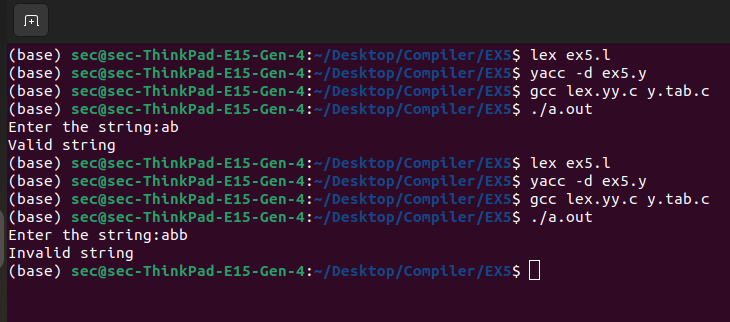
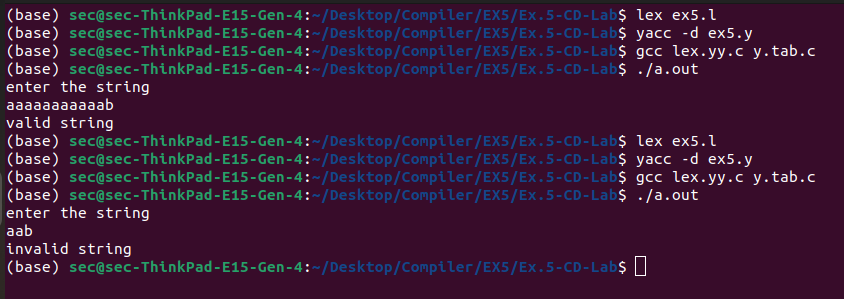
Submitted4

Changed region(s): [[0.0, 0.0, 1.0, 0.9331], [0.7233, 0.7826, 0.7534, 0.8127]]

diff --git a/y.tab.c b/y.tab.c
@@ -72,8 +72,8 @@
 #include <stdio.h>
 #include <stdlib.h>
 
-void yyerror(char *s);
-int yylex(void);
+int yylex(void);         // Prototype for yylex function
+int yyerror(char *msg);  // Prototype for yyerror function
 
 #line 79 "y.tab.c"
 
@@ -487,9 +487,9 @@ union yyalloc
 #endif /* !YYCOPY_NEEDED */
 
 /* YYFINAL -- State number of the termination state.  */
-#define YYFINAL  5
+#define YYFINAL  4
 /* YYLAST -- Last index in YYTABLE.  */
-#define YYLAST   5
+#define YYLAST   16
 
 /* YYNTOKENS -- Number of terminals.  */
 #define YYNTOKENS  6
@@ -498,7 +498,7 @@ union yyalloc
 /* YYNRULES -- Number of rules.  */
 #define YYNRULES  4
 /* YYNSTATES -- Number of states.  */
-#define YYNSTATES  8
+#define YYNSTATES  17
 
 /* YYMAXUTOK -- Last valid token kind.  */
 #define YYMAXUTOK   260
@@ -548,7 +548,7 @@ static const yytype_int8 yytranslate[] =
 /* YYRLINE[YYN] -- Source line where rule number YYN was defined.  */
 static const yytype_int8 yyrline[] =
 {
-       0,    13,    13,    16,    16
+       0,    12,    12,    18,    19
 };
 #endif
 
@@ -589,7 +589,8 @@ yysymbol_name (yysymbol_kind_t yysymbol)
    STATE-NUM.  */
 static const yytype_int8 yypact[] =
 {
-      -3,    -3,     1,    -2,     0,    -4,    -4,    -4
+      -1,     0,     4,     2,    -4,     3,     5,     6,     7,     8,
+       9,    10,    -4,    -3,    -4,    11,    -4
 };
 
 /* YYDEFACT[STATE-NUM] -- Default reduction number in state STATE-NUM.
@@ -597,19 +598,20 @@ static const yytype_int8 yypact[] =
    means the default is an error.  */
 static const yytype_int8 yydefact[] =
 {
-       4,     4,     0,     0,     0,     1,     2,     3
+       0,     0,     0,     0,     1,     0,     0,     0,     0,     0,
+       0,     0,     4,     0,     3,     0,     2
 };
 
 /* YYPGOTO[NTERM-NUM].  */
 static const yytype_int8 yypgoto[] =
 {
-      -4,    -4,     4
+      -4,    -4,    -4
 };
 
 /* YYDEFGOTO[NTERM-NUM].  */
 static const yytype_int8 yydefgoto[] =
 {
-       0,     2,     3
+       0,     2,    13
 };
 
 /* YYTABLE[YYPACT[STATE-NUM]] -- What to do in state STATE-NUM.  If
@@ -617,19 +619,22 @@ static const yytype_int8 yydefgoto[] =
    number is the opposite.  If YYTABLE_NINF, syntax error.  */
 static const yytype_int8 yytable[] =
 {
-       1,     5,     0,     6,     7,     4
+      14,    15,     1,     3,     4,     5,     6,     0,     7,     8,
+       9,    10,    11,    12,     0,     0,    16
 };
 
 static const yytype_int8 yycheck[] =
 {
-       3,     0,    -1,     5,     4,     1
+       3,     4,     3,     3,     0,     3,     3,    -1,     3,     3,
+       3,     3,     3,     3,    -1,    -1,     5
 };
 
 /* YYSTOS[STATE-NUM] -- The symbol kind of the accessing symbol of
    state STATE-NUM.  */
 static const yytype_int8 yystos[] =
 {
-       0,     3,     7,     8,     8,     0,     5,     4
+       0,     3,     7,     3,     0,     3,     3,     3,     3,     3,
+       3,     3,     3,     8,     3,     4,     5
 };
 
 /* YYR1[RULE-NUM] -- Symbol kind of the left-hand side of rule RULE-NUM.  */
@@ -641,7 +646,7 @@ static const yytype_int8 yyr1[] =
 /* YYR2[RULE-NUM] -- Number of symbols on the right-hand side of rule RULE-NUM.  */
 static const yytype_int8 yyr2[] =
 {
-       0,     2,     2,     3,     0
+       0,     2,    13,     2,     0
 };
 
 
@@ -1104,14 +1109,17 @@ yyreduce:
   YY_REDUCE_PRINT (yyn);
   switch (yyn)
     {
-  case 2: /* stmt: S NL  */
-#line 13 "ex5.y"
-           { printf("Valid string\n"); exit(0); }
-#line 1111 "y.tab.c"
+  case 2: /* stmt: A A A A A A A A A A S B NL  */
+#line 12 "ex5.y"
+                                 {
+    printf("valid string\n");
+    exit(0);
+}
+#line 1119 "y.tab.c"
     break;
 
 
-#line 1115 "y.tab.c"
+#line 1123 "y.tab.c"
 
       default: break;
     }
@@ -1304,15 +1312,18 @@ yyreturnlab:
   return yyresult;
 }
 
-#line 20 "ex5.y"
- 
+#line 21 "ex5.y"
 
-void yyerror(char *s) {
-    fprintf(stderr, "Invalid string\n");
+
+int yyerror(char *msg)
+{
+    printf("invalid string\n");
+    exit(0);
 }
 
-int main() {
-    printf("Enter the string:");
+int main()
+{
+    printf("enter the string\n");
     yyparse();
     return 0;
 }

diff --git a/README.md b/README.md
@@ -50,29 +50,33 @@ int yywrap() {
 #include <stdio.h>
 #include <stdlib.h>
 
-void yyerror(char *s);
-int yylex(void);
+int yylex(void);         
+int yyerror(char *msg);  
 %}
 
 %token A B NL
 
-%% 
-
-stmt: S NL { printf("Valid string\n"); exit(0); }
+%%
+stmt: A A A A A A A A A A S B NL {
+    printf("valid string\n");
+    exit(0);
+}
 ;
 
-S: A S B | /* Allow for empty production */
-  
-;
+S: S A
+ |
+ ;
+%%
 
-%% 
-
-void yyerror(char *s) {
-    fprintf(stderr, "Invalid string\n");
+int yyerror(char *msg)
+{
+    printf("invalid string\n");
+    exit(0);
 }
 
-int main() {
-    printf("Enter the string:");
+int main()
+{
+    printf("enter the string\n");
     yyparse();
     return 0;
 }
@@ -81,7 +85,7 @@ int main() {
 
 # OUTPUT
 
-![ex5](ex5(1).png)
+![ex5](ex5.png)
 
 # RESULT
 The YACC program to recognize the grammar anb where n>=10 is executed successfully and the output is verified.
